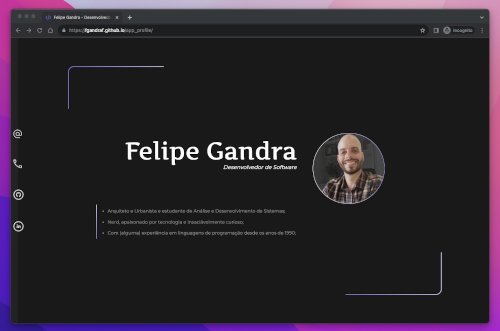
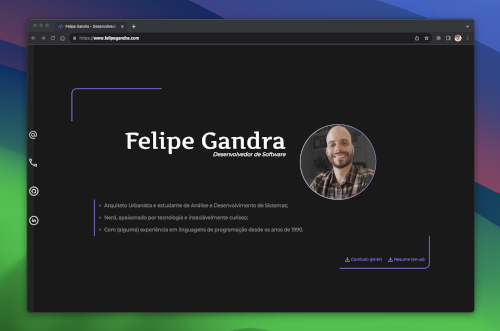
media query curriculo

diff --git a/styles/components/principal.css b/styles/components/principal.css
@@ -27,6 +27,16 @@
     gap: 1rem;
 }
 
+#curriculo__container__rodape{
+    display: none;
+    justify-content: center;
+    margin-bottom: 8rem;
+    margin-top: -6rem;
+
+    font-size: 0.8rem;
+    gap: 1rem;
+}
+
 
 .curriculo_item{
     display: flex;
@@ -111,13 +121,13 @@
 
 @media screen and (max-width: 500px) {
     #titulo{
-        margin-top: -2rem;
+        margin-top: -1rem;
         font-size: 2.5rem;
     }
 
     #subtitulo{
         font-size: 1rem;
-        margin-bottom: 2rem;
+        margin-bottom: 3rem;
         margin-top: 0.2rem;
     }
 
@@ -125,7 +135,7 @@
         align-self: center;
         font-size: 0.75rem;
         width: 70vw;
-        margin: 2rem 0 0 0;
+        margin: 3rem 0 0 0;
     }
 
     #section__principal{
@@ -142,15 +152,14 @@
     #bottom_right{
         width: 25vw;
         height: 6vh;
-        margin-top: 4rem;
     }
 
     #curriculo__container{
-        position: absolute;
-        left: 0;
-        right: 0;
-        margin-top: -1rem;
-        justify-content: center;
+        display: none;
+    }
+
+    #curriculo__container__rodape{
+        display: flex;
     }
 
     .curriculo_item:hover{

diff --git a/index.html b/index.html
@@ -236,6 +236,22 @@
         </div>
     </section>
 
+    <section>
+        <div id="curriculo__container__rodape">
+            <a href="https://drive.google.com/file/d/1ITklasT8Wm_IyoRZQlKMPtlmUP4aiftM/view?usp=sharing"
+            download target="_blank" class="curriculo_item">
+                <i class="material-symbols-outlined">download</i>
+                Currículo (pt-br)
+            </a>
+
+            <a href="https://drive.google.com/file/d/15HvtpmEJhm2zOV01VaXSBkW5pguIOyc4/view?usp=sharing"
+            download target="_blank" class="curriculo_item">
+                <i class="material-symbols-outlined">download</i>
+                Resume (en-us)
+            </a>
+        </div>
+    </section>
+
 
 </body>
 

diff --git a/styles/components/projetos.css b/styles/components/projetos.css
@@ -120,6 +120,7 @@
 
     #section__projetos{
         padding-left: 0;
+        margin-bottom: 0;
     }
 
     #projetos__container{
